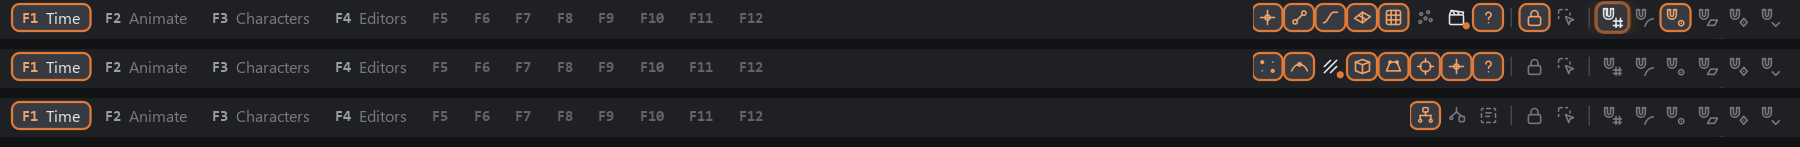
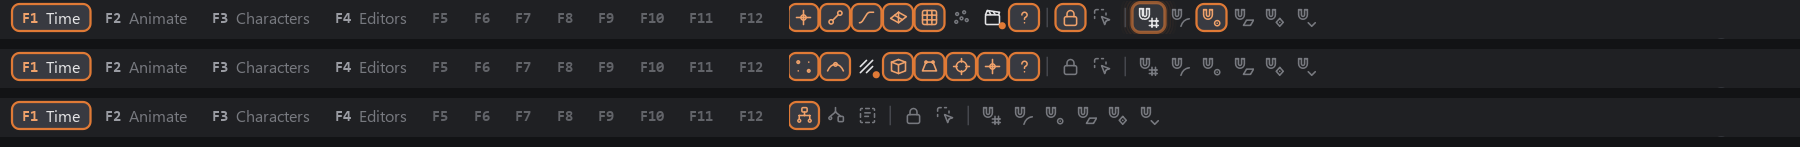
fix(skill bar): the status-line tools stand right after F12

diff --git a/tests/test_skillbar_status.py b/tests/test_skillbar_status.py
@@ -257,10 +257,11 @@ class Widget(unittest.TestCase):
     def test_a_fake_link_reads_in_memory(self):
         self.assertIsInstance(self.model, status.MemoryStatus)
 
-    def test_the_tools_stand_at_the_row_s_right_and_the_tabs_leave_them_room(self):
+    def test_the_tools_stand_right_after_the_last_tab(self):
         tabs = self.strip.tabs
-        self.assertEqual(self.tools.geometry().right() + 1, tabs.width())
         last = tabs.rects()[-1]
+        self.assertEqual(self.tools.x(), int(round(last[0] + last[1] + status.TABS_GAP)))
+        self.assertLess(self.tools.geometry().right() + 1, tabs.width())
         self.assertLessEqual(last[0] + last[1], tabs.width() - self.tools.room() + 0.5)
 
     def test_narrow_the_tabs_fold_to_keys(self):
@@ -268,6 +269,7 @@ class Widget(unittest.TestCase):
         self.app.processEvents()
         rects = self.strip.tabs.rects()
         self.assertLessEqual(rects[-1][0] + rects[-1][1], self.strip.tabs.width() - self.tools.room() + 0.5)
+        self.assertLessEqual(self.tools.geometry().right() + 1, self.strip.tabs.width())
 
     def test_a_click_presses_its_button(self):
         self.click(self.centre_of("snap", "grid"))
@@ -295,7 +297,8 @@ class Widget(unittest.TestCase):
         self.model.state = status.blank_state(status.HIERARCHY)
         self.tools.poll()
         self.assertLess(self.tools.width(), wide)
-        self.assertEqual(self.tools.geometry().right() + 1, self.strip.tabs.width())
+        last = self.strip.tabs.rects()[-1]
+        self.assertEqual(self.tools.x(), int(round(last[0] + last[1] + status.TABS_GAP)))
 
     def test_it_paints_a_lit_button_in_the_accent(self):
         self.model.state["snaps"]["point"] = True

diff --git a/SkeldarAnim/maya_skillbar/grid.py b/SkeldarAnim/maya_skillbar/grid.py
@@ -170,6 +170,7 @@ def classes():
                 self._failed = True
 
         def _paint(self):
+            self.tools.place()              # a page renamed moves the tabs' end
             s, tk, ui, k = self.strip, self.strip.tokens, self.strip.ui, kit()
             scale, opacity = s.opening_of(self.index)
             p = QtGui.QPainter(self)
@@ -264,7 +265,6 @@ def classes():
             self.timer.setInterval(self.TIMER_MS)
             self.timer.timeout.connect(self.poll)
             self.timer.start()
-            self.place()
 
         # the model ---------------------------------------------------------------
         def _read(self):
@@ -296,8 +296,15 @@ def classes():
             return status.width_of(self.mode(), ui) + status.TABS_GAP * ui
 
         def place(self):
+            """Right after the last F tab (2026-10-20: «ближе к F клавишам»), a gap between;
+            never past the row's right edge."""
             w = int(round(status.width_of(self.mode(), self.strip.ui)))
-            self.setGeometry(max(0, self.tabs.width() - w), 0, w, self.tabs.height())
+            rects = self.tabs.rects()
+            x = rects[-1][0] + rects[-1][1] + status.TABS_GAP * self.strip.ui if rects else 0
+            x = int(round(min(x, self.tabs.width() - w)))
+            geo = QtCore.QRect(max(0, x), 0, w, self.tabs.height())
+            if self.geometry() != geo:
+                self.setGeometry(geo)
 
         def rects(self):
             return status.layout(self.width(), self.mode(), self.strip.ui)

diff --git a/docs/superpowers/specs/2026-10-20-skill-bar-status-tools-design.md b/docs/superpowers/specs/2026-10-20-skill-bar-status-tools-design.md
@@ -32,8 +32,8 @@ At the right of the page row (F1..F12), on every page, the bar's height unchange
   permanent scriptJobs keep those in step, so the state is Maya's own reckoning. No status line:
   the group's primary `selectType` flags. `press` runs the control's command; `menu` / `run` the
   right button's rows (`#1` replaced by the row's new value).
-- `maya_skillbar/grid.py`: `StatusTools`, a child of `PageTabs` sized to its buttons at the row's
-  right; the tabs leave it `room()` (they fold to keys first). It reads the model every 250 ms
+- `maya_skillbar/grid.py`: `StatusTools`, a child of `PageTabs` sized to its buttons, standing right
+  after the last F tab (moved there the same day: «Сдвинь новые иконки ближе к F клавишам»); the tabs leave it `room()` (they fold to keys first). It reads the model every 250 ms
   while shown and after each press, repainting only on a change; a mode change places it again.
   The model: the strip's `status_model` if any, `MayaStatus` for the real `Link`, else memory.
 - Look and motion are the Time Bar's (`docs/interface-motion.md`): a lit button is the current

diff --git a/CLAUDE.md b/CLAUDE.md
@@ -12695,7 +12695,9 @@ Spec `docs/superpowers/specs/2026-10-20-skill-bar-status-tools-design.md`.
   fills Maya's own popup (`createMaskPopup`) and shows its rows, checked, as ours.
 - `maya_skillbar/status.py` (stdlib): the table, the icons (24-grid, drawn for this), the layout, the
   rules, `MemoryStatus`. `grid.StatusTools`: a child of `PageTabs` at the row's right, polled every
-  250 ms while shown, repainting on a change; look and motion the Time Bar's.
+  250 ms while shown, repainting on a change; look and motion the Time Bar's. **It stands right after
+  F12** (a `TABS_GAP` between; «ближе к F клавишам», the same day), never past the row's right edge;
+  `PageTabs._paint` places it again when the tabs' end moves.
 - Proof: `tests/test_skillbar_status.py` (26); `render_skill_bar_status.py` -> `skill_bar_status.png`.
   **mayapy cannot prove the scene half**: `selectType -q`, `snapMode -q`, `selectMode -q` answer None
   without a UI. **Not seen in a GUI Maya.**
